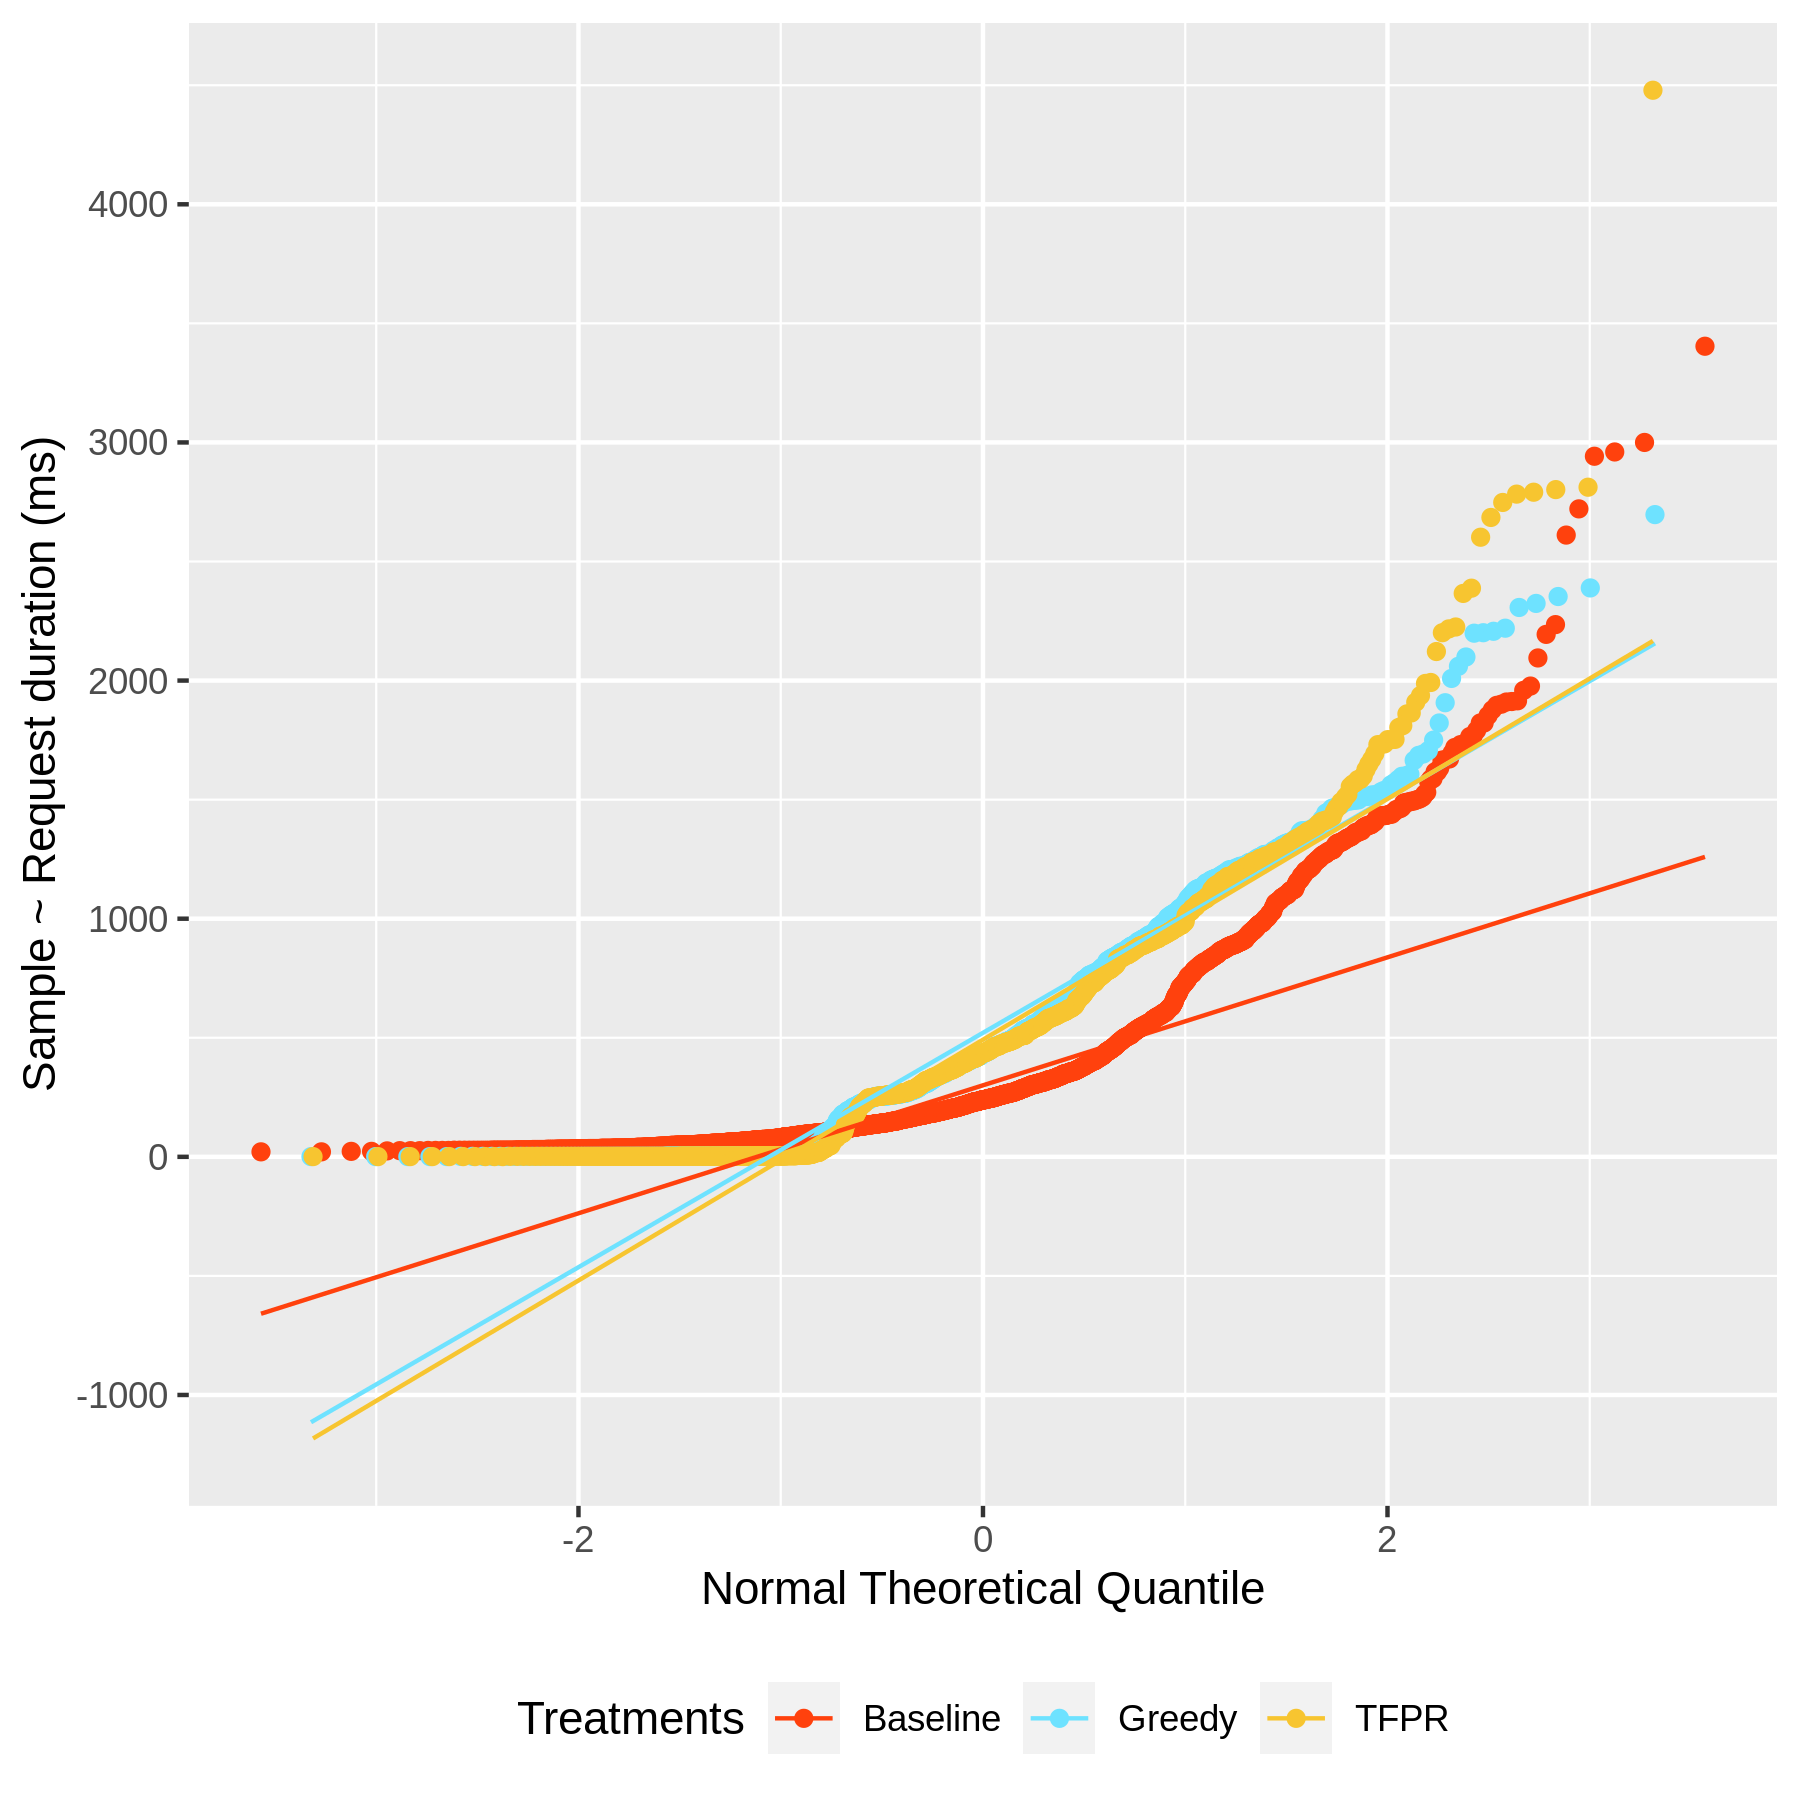
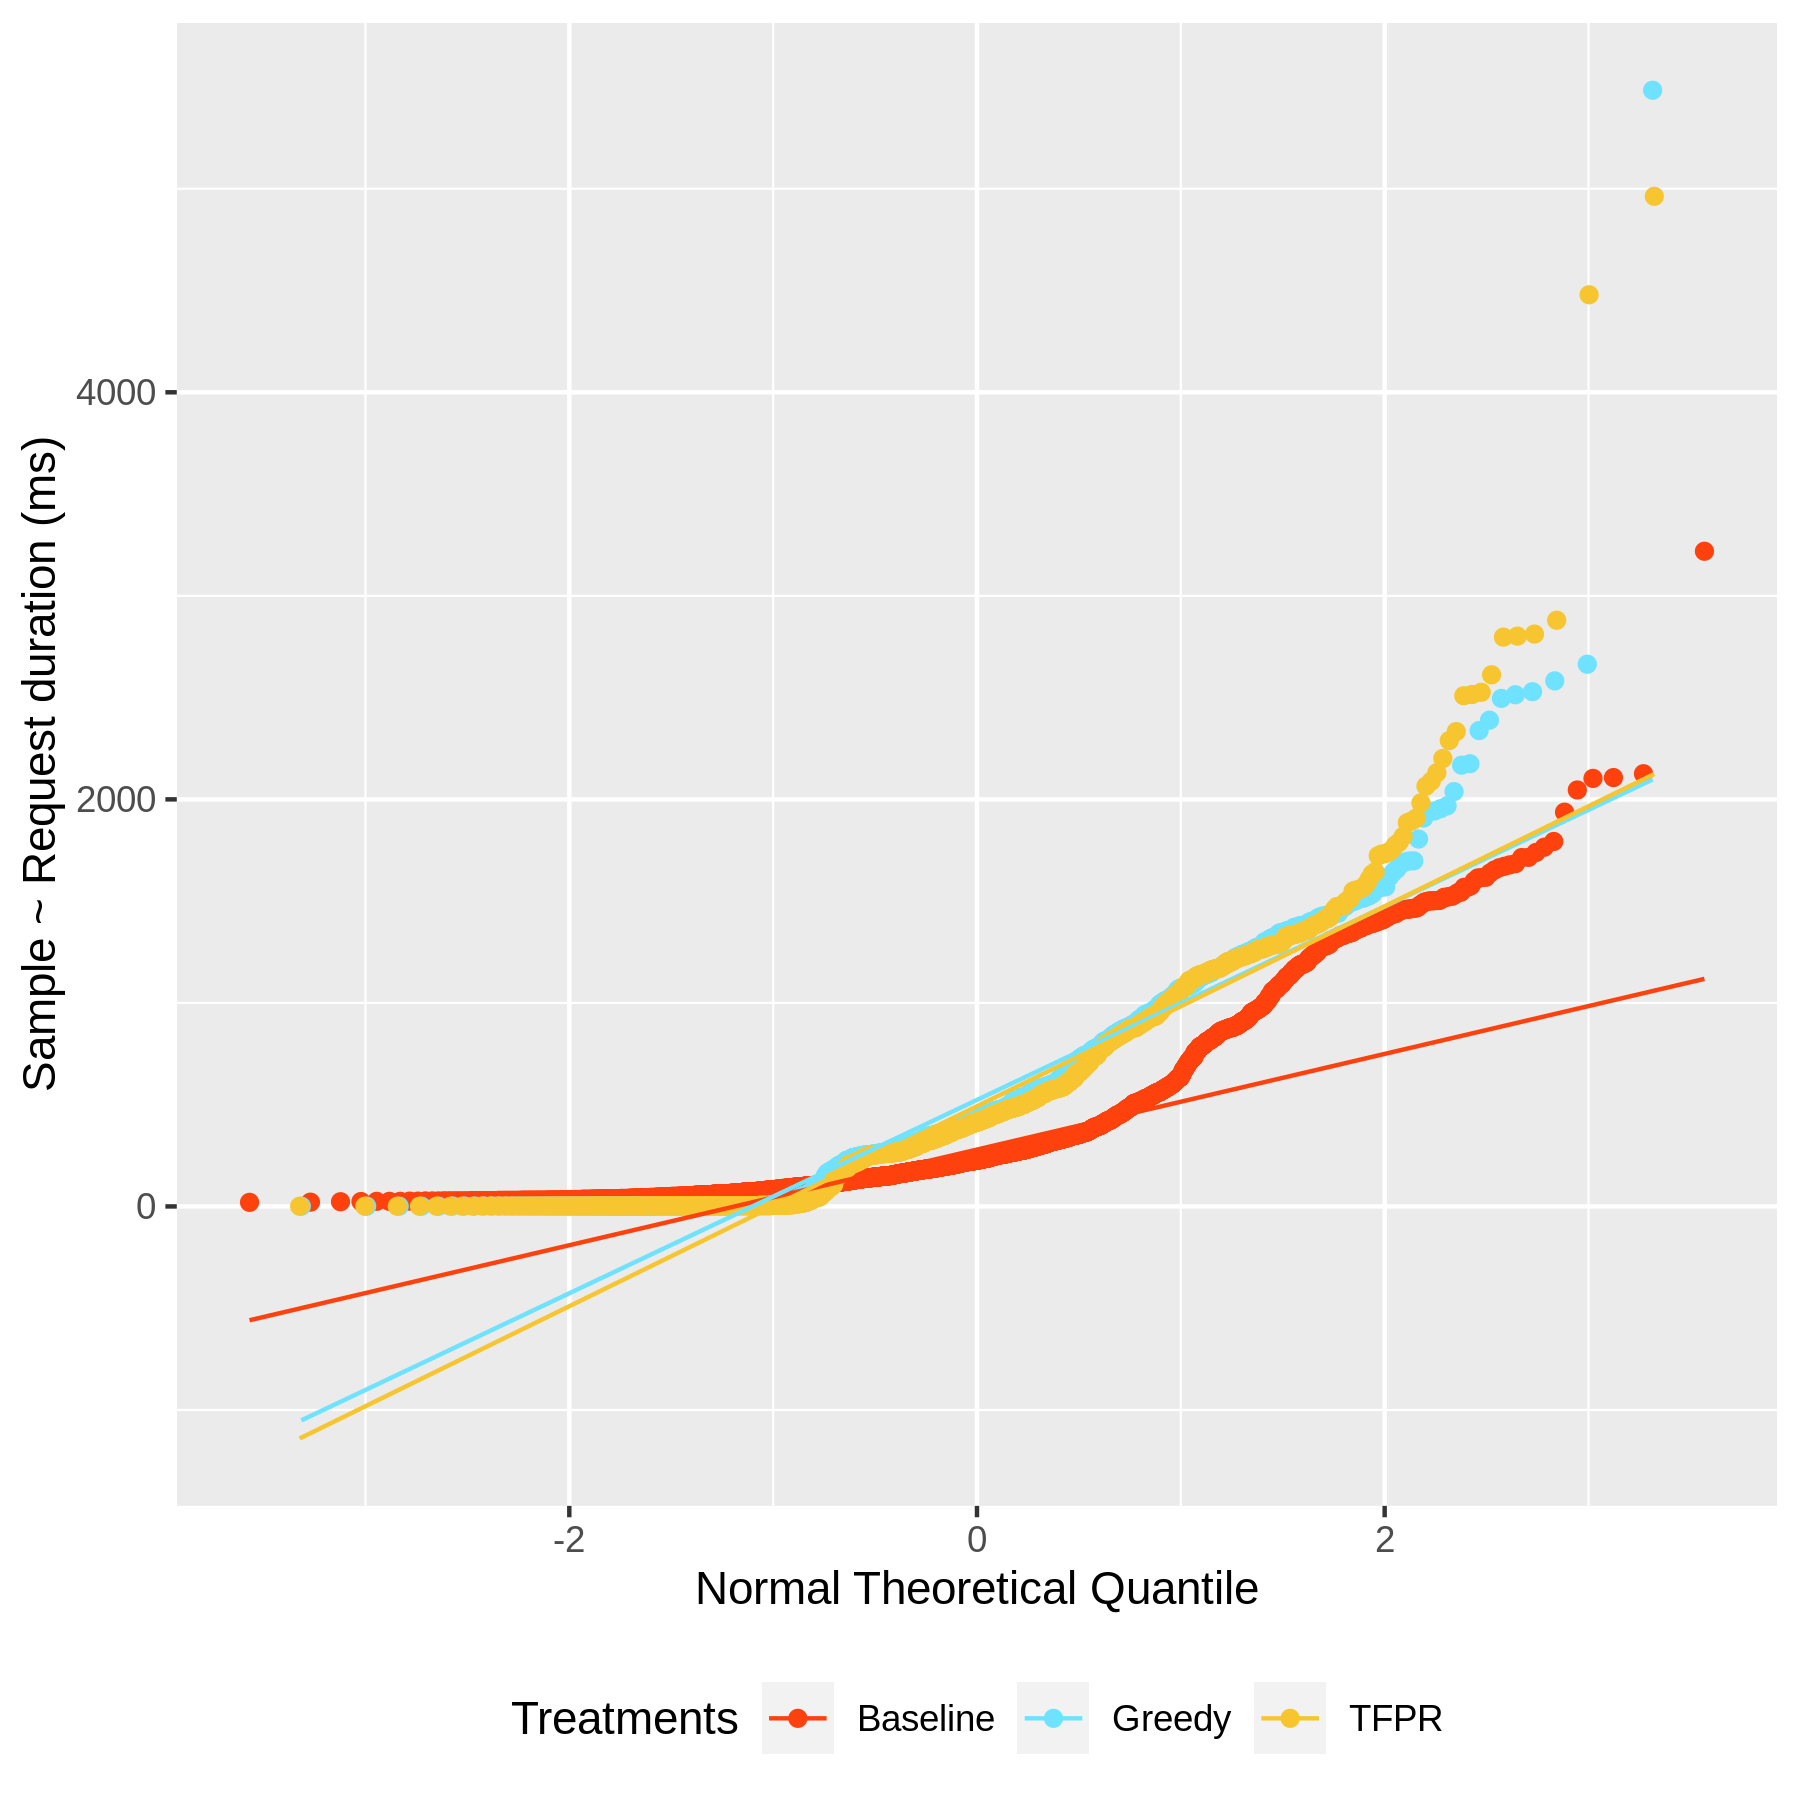
Update data

diff --git a/data-analysis/output/rq2/summary_treatment.tex b/data-analysis/output/rq2/summary_treatment.tex
@@ -1,5 +1,5 @@
 % latex table generated in R 4.0.2 by xtable 1.8-4 package
-% Tue Aug 11 19:50:51 2020
+% Tue Aug 11 20:33:26 2020
 \begin{table}[ht]
 \centering
 \begin{tabular}{rrrr}
@@ -7,12 +7,16 @@
  & Baseline & Greedy & TFPR \\ 
   \hline
 Request duration (ms) Min. & 20.00 & 1.00 & 1.00 \\ 
+  Request duration (ms) 1st Qu. & 120.00 & 178.00 & 170.00 \\ 
   Request duration (ms) Median & 231.00 & 418.00 & 421.00 \\ 
   Request duration (ms) Mean & 362.30 & 529.98 & 537.44 \\ 
+  Request duration (ms) 3rd Qu. & 443.00 & 825.00 & 844.00 \\ 
   Request duration (ms) Max. & 3467.00 & 5484.00 & 5018.00 \\ 
   Response length (KB) Min. & 0.00 & 0.00 & 0.00 \\ 
+  Response length (KB) 1st Qu. & 0.28 & 1.79 & 1.79 \\ 
   Response length (KB) Median & 0.53 & 6.71 & 6.59 \\ 
   Response length (KB) Mean & 16.27 & 197.28 & 196.29 \\ 
+  Response length (KB) 3rd Qu. & 1.79 & 19.96 & 19.96 \\ 
   Response length (KB) Max. & 2466.12 & 7859.79 & 7859.79 \\ 
    \hline
 \end{tabular}

diff --git a/data-analysis/output/rq2/summary-treatment_subject_datapoints.tex b/data-analysis/output/rq2/summary-treatment_subject_datapoints.tex
@@ -1,0 +1,32 @@
+% latex table generated in R 4.0.2 by xtable 1.8-4 package
+% Tue Aug 11 20:33:26 2020
+\begin{table}[ht]
+\centering
+\begin{tabular}{rll}
+  \hline
+ & X.Antenna.Pod..B.. & X.1666. \\ 
+  \hline
+1 & Antenna Pod (B) & 1666 \\ 
+  2 & Antenna Pod (G) & 1671 \\ 
+  3 & Antenna Pod (T) & 1656 \\ 
+  4 & Hill'Fair (B) & 570 \\ 
+  5 & Hill'Fair (G) & 570 \\ 
+  6 & Hill'Fair (T) & 570 \\ 
+  7 & Materialistic (B) & 11703 \\ 
+  8 & Materialistic (G) & 210 \\ 
+  9 & Materialistic (T) & 210 \\ 
+  10 & NewsBlur (B) & 514 \\ 
+  11 & NewsBlur (G) & 485 \\ 
+  12 & NewsBlur (T) & 477 \\ 
+  13 & RedReader (B) & 3245 \\ 
+  14 & RedReader (G) & 3240 \\ 
+  15 & RedReader (T) & 3240 \\ 
+  16 & Travel Mate (B) & 1260 \\ 
+  17 & Travel Mate (G) & 1233 \\ 
+  18 & Travel Mate (T) & 1260 \\ 
+  19 & UOB Timetable (B) & 180 \\ 
+  20 & UOB Timetable (G) & 180 \\ 
+  21 & UOB Timetable (T) & 180 \\ 
+   \hline
+\end{tabular}
+\end{table}

diff --git a/data-analysis/output/rq2/summary_subject_url_duration.tex b/data-analysis/output/rq2/summary_subject_url_duration.tex
@@ -1,5 +1,5 @@
 % latex table generated in R 4.0.2 by xtable 1.8-4 package
-% Tue Aug 11 20:04:59 2020
+% Tue Aug 11 20:33:26 2020
 \begin{table}[ht]
 \centering
 \begin{tabular}{rrrrrrr}
@@ -16,7 +16,7 @@ Antenna Pod (B) & 33.00 & 160.25 & 278.00 & 315.83 & 444.00 & 2042.00 \\
   Materialistic (G) & 5.00 & 401.25 & 645.00 & 611.13 & 805.75 & 1553.00 \\ 
   Materialistic (T) & 7.00 & 399.00 & 666.00 & 610.29 & 802.00 & 1113.00 \\ 
   NewsBlur (B) & 21.00 & 143.25 & 430.00 & 368.41 & 521.00 & 2235.00 \\ 
-  NewsBlur (G) & 1.00 & 116.50 & 481.00 & 421.79 & 599.50 & 2605.00 \\ 
+  NewsBlur (G) & 1.00 & 124.00 & 480.00 & 418.43 & 599.00 & 2605.00 \\ 
   NewsBlur (T) & 1.00 & 80.00 & 457.00 & 384.69 & 587.00 & 976.00 \\ 
   RedReader (B) & 131.00 & 342.00 & 829.00 & 842.55 & 1277.00 & 3000.00 \\ 
   RedReader (G) & 2.00 & 372.00 & 749.00 & 802.40 & 1205.00 & 2731.00 \\ 

diff --git a/data-analysis/output/rq2/summary_subject_url_length.tex b/data-analysis/output/rq2/summary_subject_url_length.tex
@@ -1,5 +1,5 @@
 % latex table generated in R 4.0.2 by xtable 1.8-4 package
-% Tue Aug 11 20:04:59 2020
+% Tue Aug 11 20:33:26 2020
 \begin{table}[ht]
 \centering
 \begin{tabular}{rrrrrrr}
@@ -16,7 +16,7 @@ Antenna Pod (B) & 0.00 & 22.35 & 45.99 & 211.16 & 89.99 & 2466.12 \\
   Materialistic (G) & 1.80 & 1.80 & 2.75 & 2.98 & 4.50 & 4.50 \\ 
   Materialistic (T) & 1.80 & 1.80 & 2.75 & 2.98 & 4.50 & 4.50 \\ 
   NewsBlur (B) & 0.04 & 0.04 & 0.24 & 14.66 & 4.74 & 117.05 \\ 
-  NewsBlur (G) & 0.05 & 0.09 & 0.40 & 25.31 & 53.18 & 201.42 \\ 
+  NewsBlur (G) & 0.05 & 0.09 & 0.40 & 25.32 & 53.18 & 201.42 \\ 
   NewsBlur (T) & 0.05 & 0.05 & 0.24 & 24.80 & 53.18 & 201.42 \\ 
   RedReader (B) & 1.71 & 3.06 & 4.99 & 28.32 & 6.13 & 1942.31 \\ 
   RedReader (G) & 0.62 & 4.20 & 9.01 & 97.82 & 11.91 & 3403.68 \\ 

diff --git a/data-analysis/output/rq2/summary-treatment_request_duration.tex b/data-analysis/output/rq2/summary-treatment_request_duration.tex
@@ -1,5 +1,5 @@
 % latex table generated in R 4.0.2 by xtable 1.8-4 package
-% Tue Aug 11 20:05:12 2020
+% Tue Aug 11 20:33:26 2020
 \begin{table}[ht]
 \centering
 \begin{tabular}{rrrrrrr}
@@ -7,7 +7,7 @@
  & Min. & 1st Qu. & Median & Mean & 3rd Qu. & Max. \\ 
   \hline
 Baseline & 20.00 & 120.00 & 231.00 & 362.30 & 443.00 & 3467.00 \\ 
-  Greedy & 1.00 & 178.00 & 419.00 & 529.99 & 825.00 & 5484.00 \\ 
+  Greedy & 1.00 & 178.00 & 418.00 & 529.98 & 825.00 & 5484.00 \\ 
   TFPR & 1.00 & 170.00 & 421.00 & 537.44 & 844.00 & 5018.00 \\ 
    \hline
 \end{tabular}

diff --git a/data-analysis/output/rq2/summary-treatment_request_length.tex b/data-analysis/output/rq2/summary-treatment_request_length.tex
@@ -1,5 +1,5 @@
 % latex table generated in R 4.0.2 by xtable 1.8-4 package
-% Tue Aug 11 20:05:12 2020
+% Tue Aug 11 20:33:26 2020
 \begin{table}[ht]
 \centering
 \begin{tabular}{rrrrrrr}
@@ -7,7 +7,7 @@
  & Min. & 1st Qu. & Median & Mean & 3rd Qu. & Max. \\ 
   \hline
 Baseline & 0.00 & 0.28 & 0.53 & 16.27 & 1.79 & 2466.12 \\ 
-  Greedy & 0.00 & 1.79 & 6.71 & 196.95 & 19.96 & 7859.79 \\ 
+  Greedy & 0.00 & 1.79 & 6.71 & 197.28 & 19.96 & 7859.79 \\ 
   TFPR & 0.00 & 1.79 & 6.59 & 196.29 & 19.96 & 7859.79 \\ 
    \hline
 \end{tabular}

diff --git a/data-analysis/output/rq2/summary_treatment_url.tex b/data-analysis/output/rq2/summary_treatment_url.tex
@@ -1,5 +1,5 @@
 % latex table generated in R 4.0.2 by xtable 1.8-4 package
-% Tue Aug 11 19:50:51 2020
+% Tue Aug 11 20:33:26 2020
 \begin{table}[ht]
 \centering
 \begin{tabular}{rlll}
